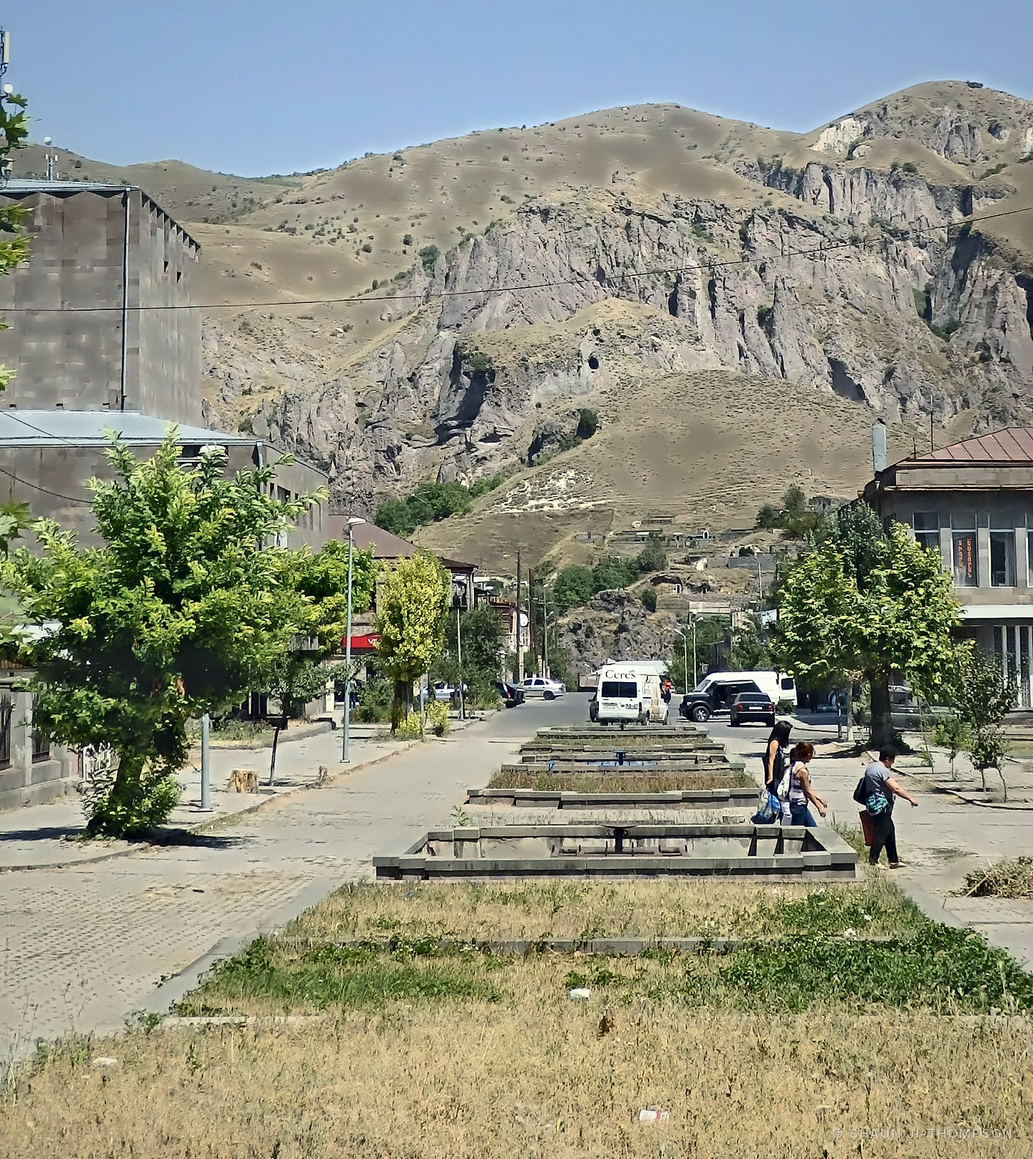
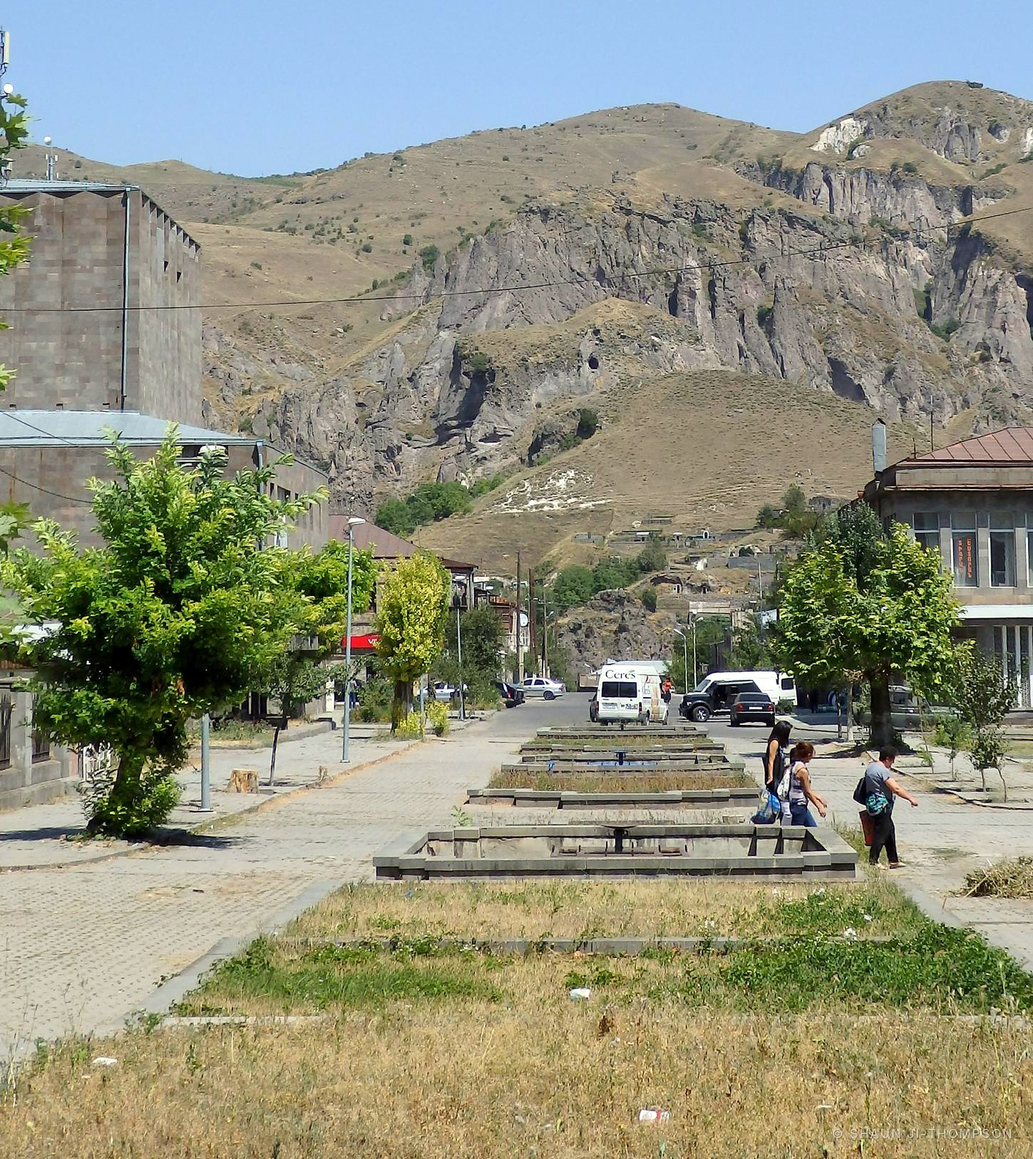
Natural photo edits; zoomed-in map with English labels only
- Re-edit all 28 photos with global-only adjustments (levels, one tone curve,
  slight warmth) — no local contrast or colour shifts, so no blotching
- tools/photo.py replaced with the natural pipeline
- Map zoomed to 41-50.6 E / 38.3-43.3 N; Armenian removed from map labels;
  Gandzasar and Sotk Pass labels hidden on phones; Tabriz marked off-map

Claude-Session: https://claude.ai/code/session_011W9MV2NAYqhQ7L2UCCCUzb

diff --git a/armenia-2015.html b/armenia-2015.html
@@ -45,6 +45,9 @@ h1 em { font-style: italic; font-weight: 200; }
 .city .hy, .pin-label .hy { display: block; font-family: 'Noto Serif Armenian', serif; font-size: .92em; opacity: .8; }
 .city.up { transform: translate(-50%, calc(-100% - 8px)); text-align: center; }
 .city.down { transform: translate(-50%, 8px); text-align: center; }
+.sea.edge-l { transform: translate(0, -50%); } .sea.edge-r { left: auto; transform: translate(0, -50%); }
+.city.edge-b { top: auto; transform: translate(-50%, 0); }
+@media (max-width: 700px) { .city.minor { display: none; } .city { font-size: 10px; } .pin { width: 12px; height: 12px; margin: -6px 0 0 -6px; } .pin-label { font-size: 11px; padding: 3px 8px; } }
 .subtitle { margin: 6px 0 0; font-family: 'Newsreader', serif; font-style: italic; font-weight: 200; font-size: clamp(30px, 4.6vw, 64px); line-height: 1; color: #D8D4CC; }
 .facts .span { grid-column: 1 / -1; }
 .deck { display: grid; grid-template-columns: repeat(auto-fit, minmax(min(100%, 300px), 1fr)); gap: 24px 64px; margin-top: 40px; padding-top: 28px; border-top: 1px solid var(--rule); }
@@ -177,29 +180,29 @@ h1 em { font-style: italic; font-weight: 200; }
       <img src="assets/armenia-map.png" alt="">
       <svg aria-hidden="true" viewBox="0 0 100 100" preserveAspectRatio="none">
         <g fill="none" stroke-linejoin="round" stroke-linecap="round">
-          <path id="borders" d="M8.00 9.23 L12.80 6.92 L20.00 11.54 L28.00 12.31 L36.00 17.69 L40.00 19.23 L44.80 19.23 L49.60 22.31 L53.60 27.69 L59.60 32.31 L62.40 37.69 L66.40 40.77 L71.20 43.08 L74.40 38.46 L76.64 32.92 M20.40 38.15 L28.00 39.23 L30.40 37.23 L35.76 44.31 L40.00 43.08 L46.40 43.08 L48.16 41.69 L53.60 40.77 L58.40 43.08 L61.60 36.92 L59.60 32.31 M35.76 44.31 L36.80 52.31 L37.60 60.00 L42.40 61.54 L46.16 66.00 M48.16 41.69 L51.60 45.38 L52.80 51.54 L55.60 56.92 L54.40 62.31 L56.80 65.38 L59.60 68.46 L60.40 73.85 L60.40 78.46 M46.16 66.00 L49.60 66.92 L53.60 68.46 L55.20 71.54 L57.20 73.85 L56.00 77.69 L56.96 78.92 L60.40 78.46 M46.16 66.00 L46.40 66.92 L50.40 72.31 L54.40 76.92 L56.96 78.92 M60.40 78.46 L64.00 74.62 L68.00 70.77 L72.00 67.69 L74.80 71.54 L72.80 76.92 L74.40 83.08 L78.96 85.69 M46.40 66.92 L44.80 70.77 L43.20 76.92 L42.40 84.62 L44.00 93.85 L42.40 101.54" stroke="#F1EEE7" stroke-width="5" vector-effect="non-scaling-stroke"/>
-          <use href="#borders" stroke="#5E625F" stroke-width="1.2" stroke-dasharray="2 4"/>
-          <path d="M58.32 90.92 L57.44 78.92 L57.20 74.62 L59.24 73.74 M44.10 58.82 L43.92 49.08 L45.28 44.62 L46.40 42.31 L46.32 35.08" stroke="#A63D24" stroke-opacity="0.5" stroke-width="2" stroke-dasharray="1 5" vector-effect="non-scaling-stroke"/>
-          <path class="march" d="M59.24 73.74 L58.71 69.06 L60.37 67.08 L62.00 65.23 L62.02 64.38 L60.44 61.08 L56.32 59.92 L54.64 58.15 L53.84 58.77 L50.40 59.38 L48.96 56.00 L48.10 52.86 L46.16 53.85 L44.10 58.82" stroke="#A63D24" stroke-width="2.5" stroke-dasharray="10 7" vector-effect="non-scaling-stroke"/>
-        </g>
+                <path id="borders" d="M-10.42 -2.00 L-4.17 -5.00 L5.21 1.00 L15.62 2.00 L26.04 9.00 L31.25 11.00 L37.50 11.00 L43.75 15.00 L48.96 22.00 L56.77 28.00 L60.42 35.00 L65.62 39.00 L71.87 42.00 L76.04 36.00 L78.96 28.80 M5.73 35.60 L15.62 37.00 L18.75 34.40 L25.73 43.60 L31.25 42.00 L39.58 42.00 L41.88 40.20 L48.96 39.00 L55.21 42.00 L59.38 34.00 L56.77 28.00 M25.73 43.60 L27.08 54.00 L28.13 64.00 L34.37 66.00 L39.27 71.80 M41.88 40.20 L46.35 45.00 L47.92 53.00 L51.56 60.00 L50.00 67.00 L53.13 71.00 L56.77 75.00 L57.81 82.00 L57.81 88.00 M39.27 71.80 L43.75 73.00 L48.96 75.00 L51.04 79.00 L53.65 82.00 L52.08 87.00 L53.33 88.60 L57.81 88.00 M39.27 71.80 L39.58 73.00 L44.79 80.00 L50.00 86.00 L53.33 88.60 M57.81 88.00 L62.50 83.00 L67.71 78.00 L72.92 74.00 L76.56 79.00 L73.96 86.00 L76.04 94.00 L81.98 97.40 M39.58 73.00 L37.50 78.00 L35.42 86.00 L34.37 96.00 L36.46 108.00" stroke="#F1EEE7" stroke-width="5" vector-effect="non-scaling-stroke"/>
+                <use href="#borders" stroke="#5E625F" stroke-width="1.2" stroke-dasharray="2 4"/>
+                <path d="M55.10 104.40 L53.96 88.60 L53.65 83.00 L56.30 81.86 M36.59 62.46 L36.35 49.80 L38.12 44.00 L39.58 41.00 L39.48 31.60" stroke="#A63D24" stroke-opacity="0.5" stroke-width="2" stroke-dasharray="1 5" vector-effect="non-scaling-stroke"/>
+                <path class="march" d="M56.30 81.86 L55.61 75.78 L57.77 73.20 L59.90 70.80 L59.92 69.70 L57.86 65.40 L52.50 63.90 L50.31 61.60 L49.27 62.40 L44.79 63.20 L42.92 58.80 L41.79 54.72 L39.27 56.00 L36.59 62.46" stroke="#A63D24" stroke-width="2.5" stroke-dasharray="10 7" vector-effect="non-scaling-stroke"/>
+              </g>
       </svg>
-      <span class="lbl country" style="left:52.8%;top:7.7%">Russia</span>
-      <span class="lbl country" style="left:33.6%;top:27.7%">Georgia</span>
-      <span class="lbl country" style="left:14%;top:66%">Turkey</span>
-      <span class="lbl country" style="left:41.5%;top:47.5%">Armenia</span>
-      <span class="lbl country" style="left:69%;top:52%">Azerbaijan</span>
-      <span class="lbl country" style="left:68%;top:94%">Iran</span>
-      <span class="lbl sea" style="left:7%;top:24.6%">Black Sea</span>
-      <span class="lbl sea" style="left:89%;top:35.4%">Caspian Sea</span>
-      <span class="dot" style="left:59.24%;top:73.74%"></span><span class="lbl city" style="left:59.24%;top:73.74%">Kapan<span class="hy" lang="hy">Կապան</span></span>
-      <span class="dot" style="left:58.71%;top:69.06%"></span><span class="lbl city left" style="left:58.71%;top:69.06%">Goris<span class="hy" lang="hy">Գորիս</span></span>
-      <span class="dot" style="left:62.02%;top:64.38%"></span><span class="lbl city" style="left:62.02%;top:64.38%">Stepanakert /<br>Khankendi<span class="hy" lang="hy">Ստեփանակերտ</span></span>
-      <span class="dot" style="left:44.1%;top:58.82%"></span><span class="lbl city left" style="left:44.1%;top:58.82%">Yerevan<span class="hy" lang="hy">Երևան</span></span>
-      <span class="dot" style="left:60.44%;top:61.08%"></span><span class="lbl city up" style="left:60.44%;top:61.08%">Gandzasar<span class="hy" lang="hy">Գանձասար</span></span>
-      <span class="dot" style="left:54.64%;top:58.15%"></span><span class="lbl city down" style="left:54.64%;top:58.15%">Sotk Pass<span class="hy" lang="hy">Սոթքի լեռնանցք</span></span>
-      <span class="dot ctx" style="left:58.32%;top:90.92%"></span><span class="lbl city ctx left" style="left:58.32%;top:90.92%">Tabriz</span>
-      <span class="dot ctx" style="left:46.32%;top:35.08%"></span><span class="lbl city ctx" style="left:46.32%;top:35.08%">Tbilisi</span>
-      <span class="pin" style="left:48.1%;top:52.86%"></span><span class="lbl pin-label" style="left:48.1%;top:52.86%">Lake Sevan<span class="hy" lang="hy">Սևանա լիճ</span></span>
+      <span class="lbl country" style="left:41.67%;top:7.00%">Russia</span>
+      <span class="lbl country" style="left:20.83%;top:25.00%">Georgia</span>
+      <span class="lbl country" style="left:13.54%;top:74.00%">Turkey</span>
+      <span class="lbl country" style="left:35.42%;top:49.00%">Armenia</span>
+      <span class="lbl country" style="left:72.92%;top:61.00%">Azerbaijan</span>
+      <span class="lbl country" style="left:66.67%;top:94.00%">Iran</span>
+      <span class="lbl sea edge-l" style="left:0.5%;top:9%">Black Sea</span>
+      <span class="lbl sea edge-r" style="right:1%;top:34%">Caspian Sea</span>
+      <span class="dot" style="left:56.30%;top:81.86%"></span><span class="lbl city" style="left:56.30%;top:81.86%">Kapan</span>
+      <span class="dot" style="left:55.61%;top:75.78%"></span><span class="lbl city left" style="left:55.61%;top:75.78%">Goris</span>
+      <span class="dot" style="left:59.92%;top:69.70%"></span><span class="lbl city" style="left:59.92%;top:69.70%">Stepanakert /<br>Khankendi</span>
+      <span class="dot" style="left:57.86%;top:65.40%"></span><span class="lbl city up minor" style="left:57.86%;top:65.40%">Gandzasar</span>
+      <span class="dot" style="left:50.31%;top:61.60%"></span><span class="lbl city down minor" style="left:50.31%;top:61.60%">Sotk Pass</span>
+      <span class="dot" style="left:36.59%;top:62.46%"></span><span class="lbl city left" style="left:36.59%;top:62.46%">Yerevan</span>
+      <span class="lbl city ctx edge-b" style="left:54.06%;bottom:1%">Tabriz ↓</span>
+      <span class="dot ctx" style="left:39.48%;top:31.60%"></span><span class="lbl city ctx" style="left:39.48%;top:31.60%">Tbilisi</span>
+      <span class="pin" style="left:41.79%;top:54.72%"></span><span class="lbl pin-label" style="left:41.79%;top:54.72%">Lake Sevan</span>
     </div>
     <p class="map-note">COUNTRIES IN CAPITALS · Towns in plain type · Solid red: this entry · Faint red: the wider leg, Tabriz to Tbilisi · Routes sketched, not exact</p>
   </div>

diff --git a/tools/photo.py b/tools/photo.py
@@ -1,73 +1,38 @@
-"""Two Worlds photo pipeline v2 — refined edit.
-python3 photo2.py IN SLUG Place Country DATE Caption [crop l,t,r,b] [shadows 0-1] [warmth]"""
-import sys, cv2, numpy as np
-from PIL import Image, ImageDraw, ImageFont
+"""Two Worlds photo pipeline v3 — natural, clean edit (global adjustments only; no local contrast, no colour shifts).
+python3 photo3.py IN SLUG Place Country DATE Caption [crop l,t,r,b]"""
+import sys, numpy as np
+from PIL import Image, ImageFilter, ImageDraw, ImageFont
 src, slug, place, country, date, caption = sys.argv[1:7]
 crop = tuple(int(v) for v in sys.argv[7].split(',')) if len(sys.argv) > 7 and sys.argv[7] else None
-SH = float(sys.argv[8]) if len(sys.argv) > 8 else 0.5
-WARM = float(sys.argv[9]) if len(sys.argv) > 9 else 1.0
-bgr = cv2.imread(src)
-if crop: l, t, r, b = crop; bgr = bgr[t:b, l:r]
-# 1 noise reduction (phone sensor, mostly in shadows)
-bgr = cv2.fastNlMeansDenoisingColored(bgr, None, 2, 3, 7, 21)
-# smooth flat areas (sky) to remove JPEG blocking before any contrast work
-f = bgr.astype(np.float32) / 255; g = cv2.cvtColor(f, cv2.COLOR_BGR2GRAY)
-mu = cv2.GaussianBlur(g, (0, 0), 3); sd0 = np.sqrt(np.clip(cv2.GaussianBlur(g * g, (0, 0), 3) - mu * mu, 0, None))
-edge = cv2.GaussianBlur(np.clip((sd0 - 0.008) / 0.02, 0, 1), (0, 0), 3)[..., None]
-f = f * edge + cv2.GaussianBlur(f, (0, 0), 7) * (1 - edge)
-lab = cv2.cvtColor(f, cv2.COLOR_BGR2LAB)
-lab = np.dstack([lab[..., 0] * 255 / 100, lab[..., 1] + 128, lab[..., 2] + 128]).astype(np.float32)
-L = lab[..., 0] / 255.0
-# 2 tone: lift shadows, protect highlights, gentle S in mids
-base = cv2.GaussianBlur(L, (0, 0), 25)                       # local luminance for masking
-shadow_mask = np.clip(1 - base / 0.45, 0, 1) ** 1.5
-L = L + SH * 0.22 * shadow_mask * (1 - L)
-hi_mask = np.clip((base - 0.7) / 0.3, 0, 1)
-L = L - 0.08 * hi_mask * L
-L = np.clip(L, 0, 1)
-L = L + 0.06 * np.sin((L - 0.5) * np.pi) * (1 - np.abs(L - 0.5) * 2) * 0  # placeholder no-op
-L = 0.5 + (L - 0.5) * 1.06
-# texture mask: clarity only where there is detail, never in smooth sky
-m = cv2.GaussianBlur(L, (0, 0), 4); sd = np.sqrt(np.clip(cv2.GaussianBlur(L * L, (0, 0), 4) - m * m, 0, None))
-tex = cv2.GaussianBlur(np.clip((sd - 0.012) / 0.03, 0, 1), (0, 0), 6)
-# 3 local contrast (CLAHE on 16-bit) blended by texture
-cl = cv2.createCLAHE(clipLimit=1.6, tileGridSize=(8, 8)).apply((np.clip(L, 0, 1) * 65535).astype(np.uint16)) / 65535.0
-L = L + 0.35 * tex * (cl - L)
-# 4 clarity: midtone large-radius unsharp, texture only
-blur = cv2.GaussianBlur(L, (0, 0), 12)
-mid = 1 - np.abs(L - 0.5) * 2
-L = np.clip(L + 0.30 * (L - blur) * mid * tex, 0, 1)
-# levels: anchor true blacks and whites, then gentle S-curve
-lo, hi = np.percentile(L, 0.4), np.percentile(L, 99.7)
-L = np.clip((L - lo) / (hi - lo) * 0.96 + 0.02, 0, 1)
-L = L * 0.78 + 0.22 * (3 * L * L - 2 * L ** 3)
-lab[..., 0] = L * 255
-# 5 split tone: warm highlights, cool deep shadows (in LAB a/b)
-lab[..., 2] += WARM * (6 * np.clip((L - 0.55) / 0.45, 0, 1) - 4 * np.clip((0.35 - L) / 0.35, 0, 1))
-lab[..., 1] += WARM * (1.5 * np.clip((L - 0.55) / 0.45, 0, 1))
-# 6 vibrance: boost low-saturation colour more than saturated
-a, b = lab[..., 1] - 128, lab[..., 2] - 128
-chroma = np.sqrt(a * a + b * b)
-boost = 1 + 0.22 * np.clip(1 - chroma / 40, 0, 1)
-lab[..., 1] = 128 + a * boost; lab[..., 2] = 128 + b * boost
-lab = lab + np.random.uniform(-0.5, 0.5, lab.shape).astype(np.float32)  # dither: no banding
-bgr = cv2.cvtColor(np.clip(lab, 0, 255).astype(np.uint8), cv2.COLOR_LAB2BGR).astype(np.float32) / 255
-# 7 subtle vignette
-h, w = bgr.shape[:2]; yy, xx = np.ogrid[:h, :w]
-d = np.sqrt(((xx - w / 2) / (w / 2)) ** 2 + ((yy - h / 2) / (h / 2)) ** 2)
-bgr *= np.clip(1 - 0.16 * np.clip(d - 0.65, 0, None), 0.78, 1)[..., None]
-bgr += np.random.normal(0, 0.006, bgr.shape[:2]).astype(np.float32)[..., None]  # fine film grain
-img8 = (np.clip(bgr, 0, 1) * 255).astype(np.uint8)
-# 8 output sharpening
-sharp = cv2.addWeighted(img8, 1.35, cv2.GaussianBlur(img8, (0, 0), 1.1), -0.35, 0)
-out = Image.fromarray(cv2.cvtColor(sharp, cv2.COLOR_BGR2RGB))
+im = Image.open(src).convert('RGB')
+if crop: im = im.crop(crop)
+a = np.asarray(im).astype(np.float32) / 255
+L = a @ np.array([0.2126, 0.7152, 0.0722], np.float32)
+# 1 levels: set true black and white points, same for all channels (no colour cast)
+lo, hi = np.percentile(L, 0.3), np.percentile(L, 99.8)
+lo = min(lo, 0.06); hi = max(hi, 0.9)
+a = np.clip((a - lo) / (hi - lo), 0, 1)
+L = a @ np.array([0.2126, 0.7152, 0.0722], np.float32)
+# 2 one smooth tone curve on luminance: gentle shadow lift + mild S, applied as a ratio so hues stay put
+f = L ** 0.9
+f = f * 0.88 + 0.12 * (3 * f * f - 2 * f ** 3)
+r = np.where(L > 1e-4, f / np.maximum(L, 1e-4), 1.0)[..., None]
+a = a * r
+over = np.clip(a.max(2, keepdims=True), 1, None)        # keep highlights from clipping to odd hues
+a = a / over
+# 3 a touch of warmth and saturation, uniform across the frame
+a[..., 0] *= 1.012; a[..., 2] *= 0.988
+L = (a @ np.array([0.2126, 0.7152, 0.0722], np.float32))[..., None]
+a = np.clip(L + (a - L) * 1.06, 0, 1)
+out = Image.fromarray((a * 255 + np.random.uniform(-0.5, 0.5, a.shape)).clip(0, 255).astype(np.uint8))
+out = out.filter(ImageFilter.UnsharpMask(radius=1.0, percent=45, threshold=4))
 year = date[:4]
-def meta(im):
-    ex = im.getexif(); ex[0x013B] = 'Shaun Ji-Thompson'
+def meta(img):
+    ex = img.getexif(); ex[0x013B] = 'Shaun Ji-Thompson'
     ex[0x8298] = f'Copyright {year} Shaun Ji-Thompson. All rights reserved.'
     ex[0x010E] = f'{place}, {country}, {date}. {caption}'; return ex
 out.save(f'{slug}-master.jpg', quality=95, subsampling=0, exif=meta(out))
-W = 2000; web = out.resize((W, round(out.height * W / out.width)), Image.LANCZOS).convert('RGBA')
+k = 2000 / max(out.size); web = out.resize((round(out.width * k), round(out.height * k)), Image.LANCZOS).convert('RGBA')
 lay = Image.new('RGBA', web.size, (0, 0, 0, 0)); dr = ImageDraw.Draw(lay)
 font = ImageFont.truetype('/usr/share/fonts/opentype/inter/InterDisplay-Medium.otf', 22)
 text = '© SHAUN JI-THOMPSON'; sp = 3
@@ -77,5 +42,4 @@ for ox, oy, col in [(1, 1, (0, 0, 0, 70)), (0, 0, (241, 238, 231, 165))]:
     x = x0 + ox
     for c, cw in zip(text, ws): dr.text((x, y0 + oy), c, font=font, fill=col); x += cw + sp
 web = Image.alpha_composite(web, lay).convert('RGB')
-web.save(f'{slug}.jpg', quality=85, optimize=True, progressive=True, exif=meta(web))
-print(slug, out.size)
+web.save(f'{slug}.jpg', quality=88, optimize=True, progressive=True, exif=meta(web))
